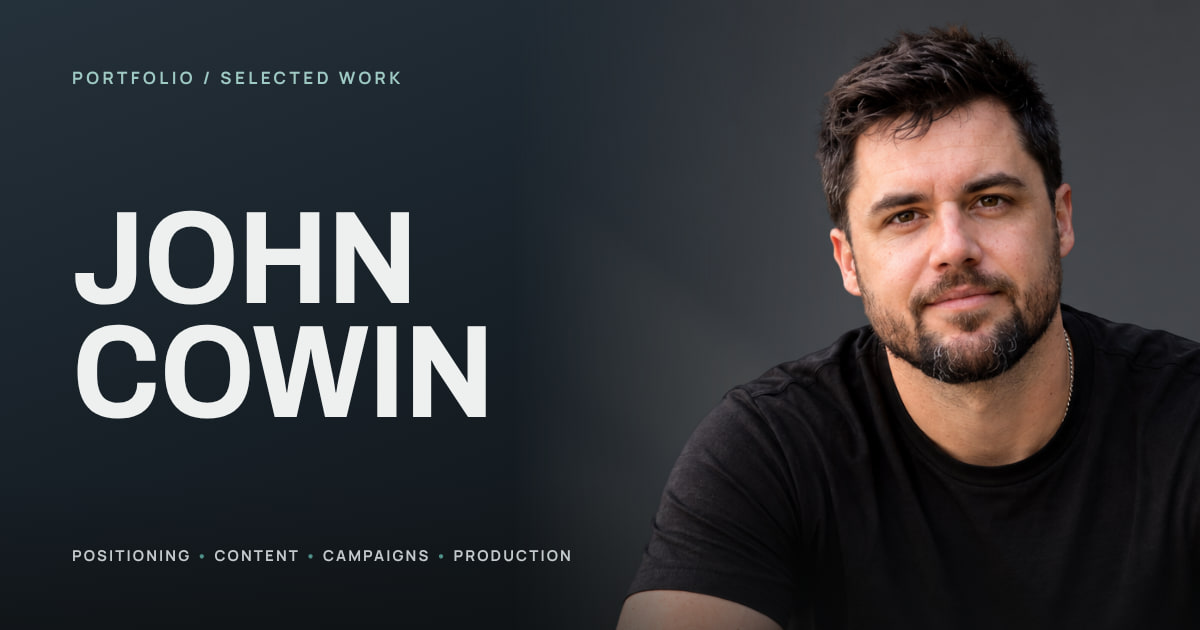
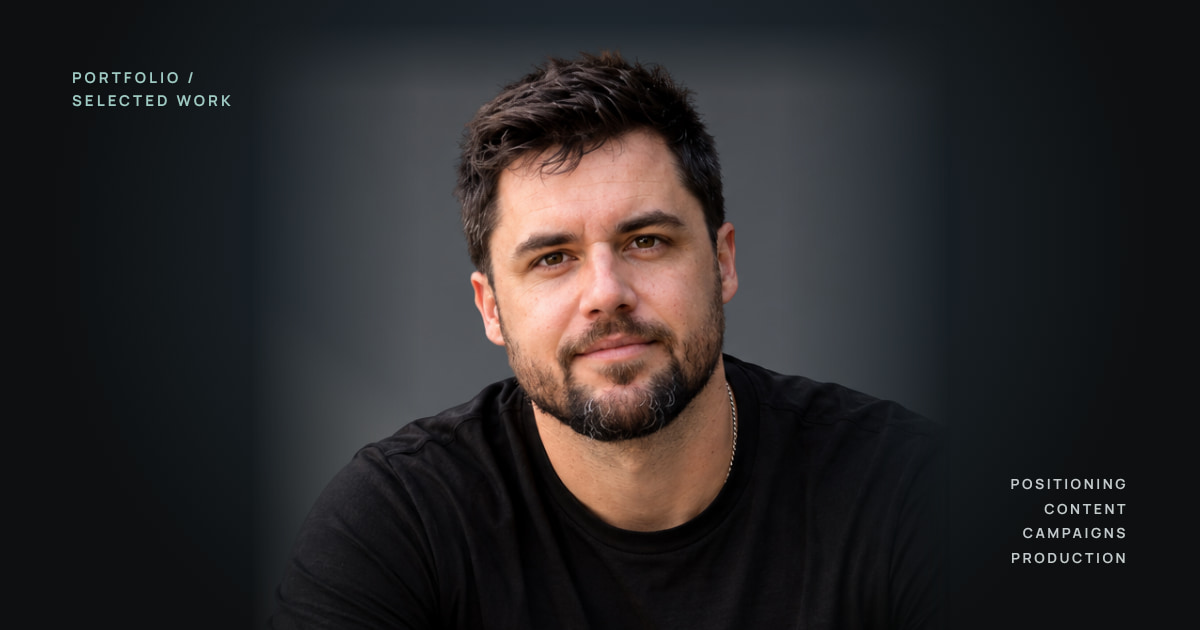
Social Share V1.1: a crop-safe portrait card, one site name and the public domain
John's delta brief: Slack's compact unfurl crops the wide card around its center and showed fragments of the
name beside the face. The share title and description, the browser title, the visible copy, the case-study
cards' designs, the hashing and the 1200 by 630 size are unchanged.

- scripts/og.mjs: the homepage card is a crop-safe portrait with no name or headline in it. The hero's
  photograph and foreground layer, John's face on the vertical center line, fading out toward the sides and
  the top over a dark ground, so the central 630 by 630 square (about Slack's compact thumbnail) is a clean
  head-and-shoulders portrait with no type; the teal eyebrow (upper left) and the stacked disciplines (lower
  right) sit outside it, and the renderer stops if either would enter it. og/home.jpg, 68 KB (quality 92),
  with a fresh hash and new alt text: Portrait of John Cowin for his Web3 marketing and production portfolio.
- site.json ogSiteName (John Cowin Portfolio) is every page's og:site_name; the homepage-only override is gone,
  and site.name and the Person name stay John Cowin.
- public/CNAME (johncowin.com): the build resolves to https://johncowin.com, so canonical URLs, og:url, share
  images, the Person url, the sitemap and robots.txt use the public domain, none jtcowin.github.io. The
  deployment workflow and domain settings are unchanged.
- verify.mjs: the site name on every page, the CNAME, the domain of every canonical and share URL, the
[…]

diff --git a/README.md b/README.md
@@ -5,7 +5,7 @@ Static output only: no database, CMS, authentication, or server code. All copy l
 and every image, video still, logo, and metric on the site resolves through one asset manifest, so
 content and media can be updated through GitHub without touching layout code.
 
-**Status: Social Share Polish V1.** Version 2.0, Technical Product Marketing Version 1.6,
+**Status: Social Share V1.1.** Version 2.0, Technical Product Marketing Version 1.6,
 Events and Multimedia Production Version 1.6, Creator Marketing and Partnerships Version 1.4, Full Site
 Iteration V1 (John's brief of surgical refinements across the site: the hero's staged entrance, decided
 copy and a restrained emphasis system, one landscape video per homepage card with two new montages, the
@@ -22,10 +22,11 @@ expanded toward the creator card's length and substance, and the Events page's t
 reordered to lead with the production room; see [Full Site Iteration V1.2](#full-site-iteration-v12))
 and Full Site Iteration V1.3 (the final desktop correction of the events montage: the Events page's
 four approved edits, each played whole, one after another; see [Full Site Iteration
-V1.3](#full-site-iteration-v13)), and the approved two-page resume (October 2026), are published. Social
-Share Polish V1 (the homepage's link preview: its own site name, title and description, decoupled from
-the browser title, and a portrait-led card; see [Social Share Polish V1](#social-share-polish-v1))
-follows them. Placeholders render only in `npm run dev`;
+V1.3](#full-site-iteration-v13)), the approved two-page resume (October 2026) and Social Share Polish V1
+(the homepage's link preview: its own title and description, decoupled from the browser title; see
+[Social Share Polish V1](#social-share-polish-v1)) are published. Social Share V1.1 (a crop-safe portrait
+card, John Cowin Portfolio as every preview's site name, and every canonical and share URL on
+johncowin.com; see [Social Share V1.1](#social-share-v11)) follows them. Placeholders render only in `npm run dev`;
 production builds hide any asset that is not both approved and present, so an unresolved entry never
 reaches the public site (see [Replacing placeholders](#replacing-placeholders)).
 
@@ -208,25 +209,23 @@ Deployment is automated by `.github/workflows/deploy.yml`: every push to `main` 
 publishes it to GitHub Pages.
 
 One-time setup in the repository settings: **Settings → Pages → Build and deployment → Source: GitHub Actions**.
-After the first successful run the site is live at `https://jtcowin.github.io/`.
+The site is live at `https://johncowin.com/` (the custom domain, below); `https://jtcowin.github.io/`
+redirects there.
 
 Because the repository is named `jtcowin.github.io`, GitHub treats it as a **user site** and serves it from
 the root of the domain. The build reflects that: the base path is `/`, so pages are at `/work/...`, not
 `/<repo>/work/...`. `site.config.mjs` derives this from the repository name, so renaming the repo to
 something else (making it a project site) only requires updating `GITHUB_REPO` there.
 
-### Custom domain (later)
+### Custom domain
 
-1. Point the domain's DNS at GitHub Pages: four `A` records for the apex domain
-   (`185.199.108.153`, `185.199.109.153`, `185.199.110.153`, `185.199.111.153`) and a `CNAME`
-   record for `www` pointing at `jtcowin.github.io`.
-2. In the repository: **Settings → Pages → Custom domain**, enter the domain, save, and tick
-   **Enforce HTTPS** once GitHub finishes verifying DNS.
-3. Create `public/CNAME` containing the bare domain, e.g. `johncowin.com`, and push. The build detects
-   that file and switches the canonical site URL to `https://<domain>/`. The base path is already `/`,
-   so no links change. Nothing in `src/` needs editing.
-
-Steps 2 and 3 should happen close together so the canonical URLs and the served domain agree.
+johncowin.com is set up: GitHub Pages serves it (its DNS points at GitHub Pages, and the domain is set
+under **Settings → Pages → Custom domain**, with **Enforce HTTPS**), and `jtcowin.github.io` redirects to
+it. Since Social Share V1.1, `public/CNAME` holds exactly `johncowin.com`, so the build knows it too:
+`site.config.mjs` reads that file and builds for `https://johncowin.com/` at base `/`, and every canonical
+URL, `og:url`, share image, the structured data's `url`, the sitemap and `robots.txt` use it. No links
+change and nothing in `src/` names the domain. To change the domain, update DNS and the Pages setting,
+then this file, together, so the canonical URLs and the served domain agree.
 
 `site.config.mjs` holds this logic. `SITE_URL` and `BASE_PATH` environment variables override it if ever needed.
 
@@ -417,9 +416,9 @@ tokens and photographs by `npm run og`: every card, or one with `npm run og -- h
 study's slug); `--out=<dir>` renders them somewhere else, to compare a fresh render with the committed
 files. The manifest entries (`og-home`, `og-creator-campaigns`, …) point at them, and each page's
 preview URL carries a short hash of its card's file (`?v=`, in `BaseLayout.astro`), so a regenerated
-card gets a fresh URL and platforms fetch it anew. Since Social Share Polish V1 the homepage card is
-portrait-led and a JPEG (`og/home.jpg`; see [Social Share Polish V1](#social-share-polish-v1)); the
-three case-study cards are typographic PNGs. The renderer's output is not byte-for-byte stable across
+card gets a fresh URL and platforms fetch it anew. The homepage card is a crop-safe portrait and a
+JPEG (`og/home.jpg`; see [Social Share V1.1](#social-share-v11)); the three case-study cards are
+typographic PNGs. The renderer's output is not byte-for-byte stable across
 machines, so commit only the card that changed: the events card was regenerated with the case study's
 new title, Events and Multimedia Production, in Events Version 1.0, and in Social Share Polish V1 a
 full regeneration reproduced the creator and events cards byte for byte and the technical-marketing
@@ -539,8 +538,8 @@ section), the innermost one on the line wins, and the one around it takes over a
 - The hero name keeps its approved Archivo Medium 500 at normal width.
 - The serif and the monospace face are retired, and their packages were removed. `scripts/og.mjs`
   renders the social-preview cards in Archivo and Manrope on the same palette: the home card (since
-  Social Share Polish V1) sets the name in Archivo capitals beside the hero's own photograph, and each
-  case-study card uses the tone of its Select Work card. Case-study card titles come from the current
+  Social Share V1.1) is the hero's own photograph as a crop-safe portrait with two small Manrope labels,
+  and each case-study card uses the tone of its Select Work card. Case-study card titles come from the current
   page titles, so rerun `npm run og` for that card whenever a title changes.
 
 ## Content guardrails
@@ -904,6 +903,52 @@ formal title for the Phi Labs role is still "Social Media Manager", on the resum
   hero's name stream, and `verify.mjs` excuses that exact line only. John's name appears once in the
   footer.
 
+### Social Share V1.1
+
+John's delta brief (October 2026): the wide card looked good, but Slack's compact unfurl crops it
+around its center and showed fragments of JOHN COWIN beside the face. The card is now crop-safe, every
+preview names the site the same way, and every address the build writes for others to follow is on
+johncowin.com. The homepage's share title and description, the browser title, the visible copy, the
+case-study cards' designs, the hashing and the 1200 by 630 size are as they were.
+
+- **A crop-safe card** (`scripts/og.mjs`, `npm run og -- home`; `og/home.jpg`, 68 KB). No name or
+  headline in the image: the preview's own text carries those. The hero's own photograph (the wall
+  toned toward the slate) and its foreground layer over it, scaled 0.94, John's face on the card's
+  vertical center line (x 600) with his head 44 px from the top; both layers fade out toward the sides
+  (opaque from 420 to 780 px, gone by 250 and 950) and the wall fades in from the top, over a dark ground
+  with a soft slate glow behind him. The central 630 by 630 square, about what Slack's compact thumbnail
+  shows, is therefore a complete, vignetted head-and-shoulders portrait with no type in it at all. Outside
+  it, two small notes that nothing depends on: PORTFOLIO / SELECTED WORK in teal at the upper left, on
+  two lines, and the disciplines at the lower right, stacked (POSITIONING, CONTENT, CAMPAIGNS,
+  PRODUCTION: one line would cross into the square), each 72 px from the edges and at least 24 px
+  clear of the square; the renderer stops if either would enter it. JPEG quality 92 with full chroma,
+  inside the brief's 65 to 150 KB. Alt text: Portrait of John Cowin for his Web3 marketing and
+  production portfolio.
+- **One site name** (`site.json` `ogSiteName`: John Cowin Portfolio) for every page's `og:site_name`,
+  the homepage, the three case studies, the 404 page and any page to come; the homepage-only override is
+  gone. `site.name`, the structured data's Person name and the visible name stay John Cowin.
+- **The public domain** (`public/CNAME`: exactly `johncowin.com`). The build now resolves its site to
+  `https://johncowin.com`, so every canonical URL, `og:url`, `og:image` and X image, the Person's `url`,
+  the sitemap and `robots.txt` use it, and nothing in the build names `jtcowin.github.io`. The deployment
+  workflow and the domain's behavior are unchanged (the domain was already set in GitHub; no DNS change).
+- **Dependencies.** On the Mac, `npm ci` restored the pinned versions from `package-lock.json` (Astro
+  7.3.1; 7.4.1 had been installed there, and its builds wrote the font preloads as file paths); nothing
+  was upgraded and the lockfile is unchanged. The cards were rendered in the cloud copy, which runs the
+  same pinned versions.
+
+**Tested** (beyond `verify.mjs`): the whole card, the centered 630 by 630 crop, and both at the sizes
+apps show them (the card at about 330 px across, the square at 75 and 150 px); every card regenerated
+(the creator and events cards byte for byte, the technical-marketing card with sub-pixel differences in
+its type only, so all three stay as committed); built side by side with the commit before, the only
+differences are the share tags' domain and site name, the homepage card and its alt text, the Person's
+`url`, the sitemap, `robots.txt` and the new `CNAME`.
+
+**The checks** (`verify.mjs`): every page's `og:site_name` is John Cowin Portfolio, from `ogSiteName`;
+`public/CNAME` and the built `CNAME` hold exactly `johncowin.com`; every page's canonical URL, `og:url`,
+`og:image` and X image begin with `https://johncowin.com/` and no head names `jtcowin.github.io`;
+`robots.txt` and the sitemap point at johncowin.com; and V1's checks stand, the card's new alt text
+included. A mutation run broke each in turn (32 mutations), and every one was caught.
+
 ### Social Share Polish V1
 
 John's brief (October 2026): the homepage's link preview, as WhatsApp and other apps show it, repeated
@@ -947,7 +992,8 @@ container, stripe and URL line are WhatsApp's.)
 **For John to confirm.** The new site name is on the homepage only; one line makes it site-wide if you
 want the case studies' previews to say John Cowin Portfolio too. The canonical and `og:url` addresses
 still use `jtcowin.github.io` (which redirects to johncowin.com); a `public/CNAME` would switch every
-page to johncowin.com, a site-wide change left for its own pass.
+page to johncowin.com, a site-wide change left for its own pass. (Both were done in [Social Share
+V1.1](#social-share-v11), which also replaced this card with a crop-safe one.)
 
 **The checks** (`verify.mjs`): the homepage's site name, title and description for Open Graph and X
 come from `homeShare`; the tab title, the search description, `site.name`, the JSON-LD name and the
